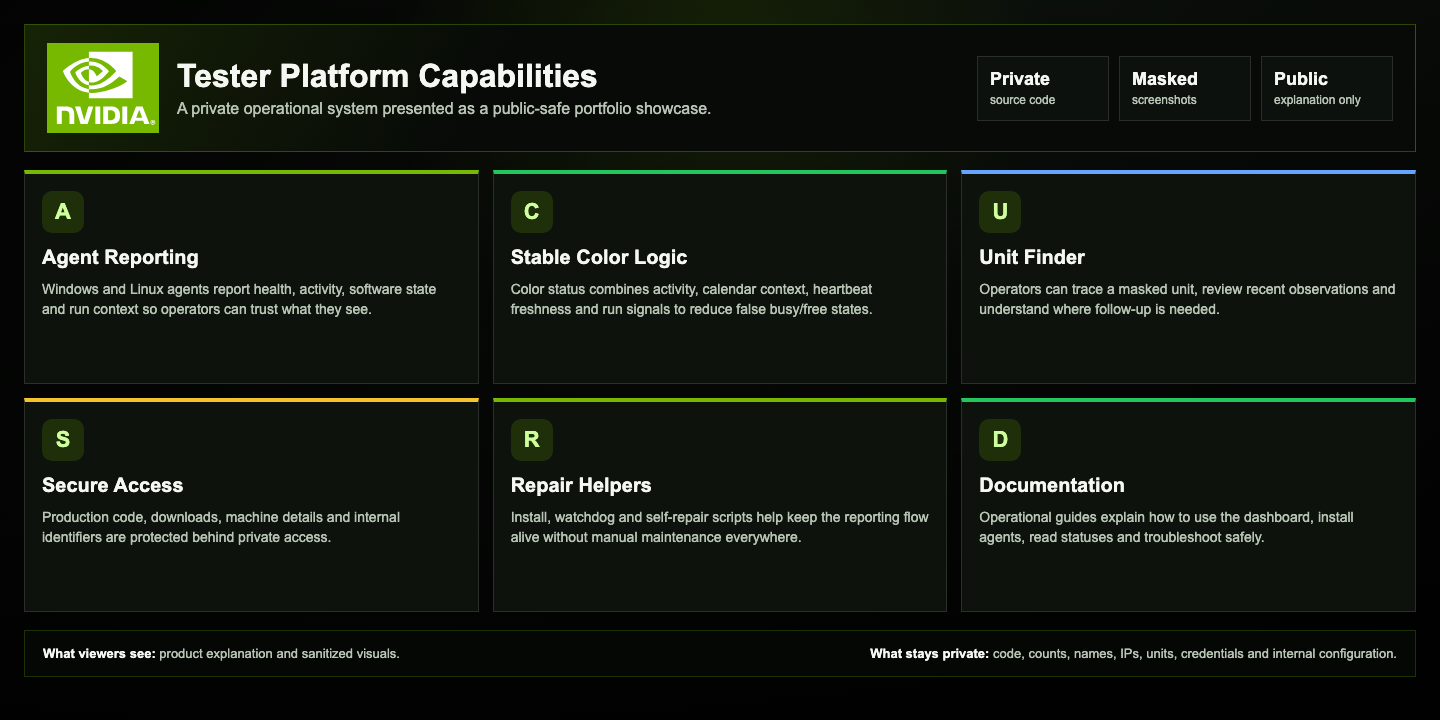
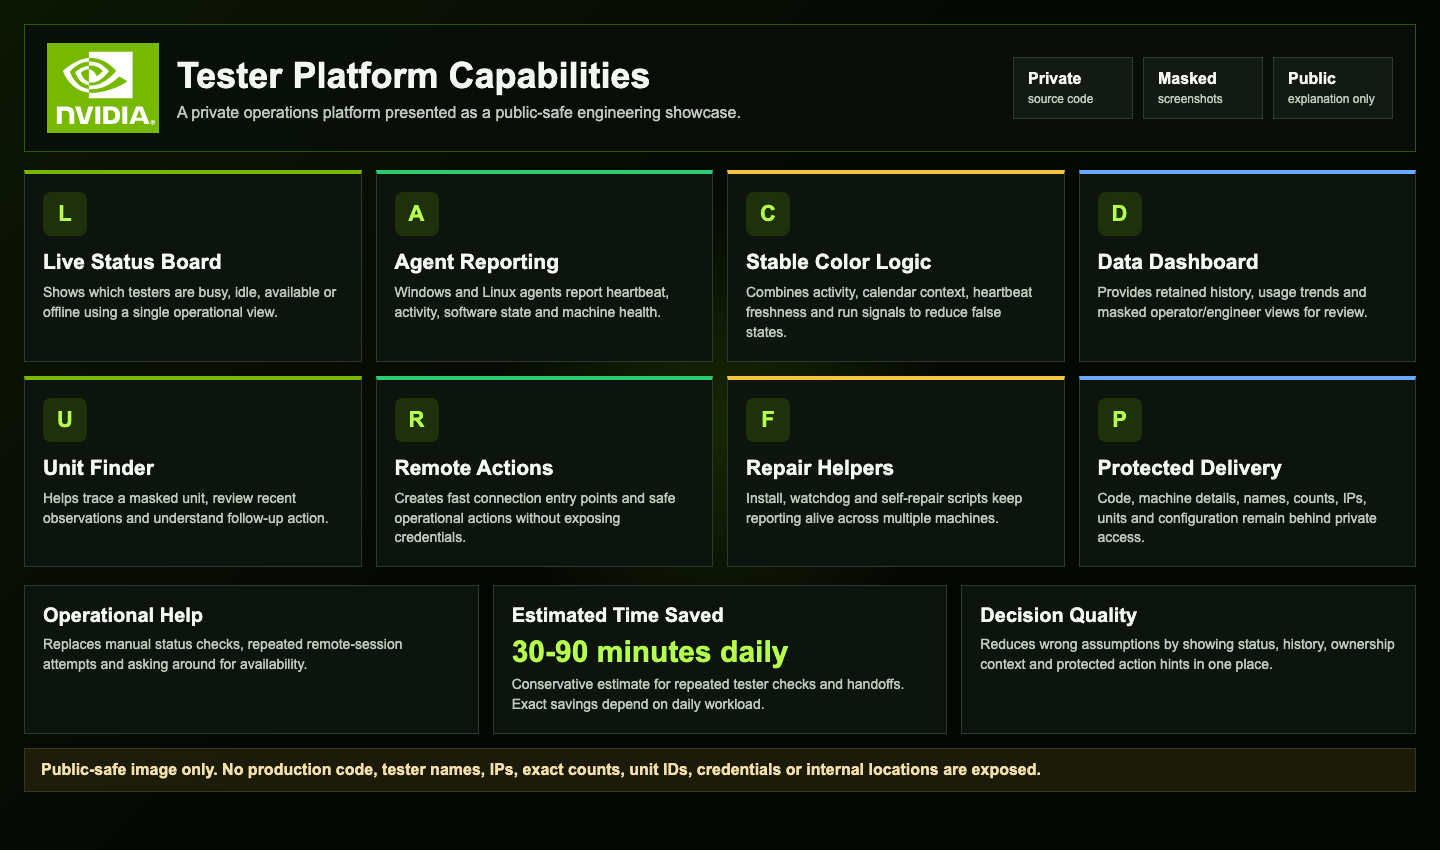
Expand tester dashboard impact showcase

diff --git a/README.md b/README.md
@@ -1,8 +1,8 @@
 # Tester Monitor Dashboard
 
-Public showcase for a private internal operations system.
+Public showcase for a private internal operations platform.
 
-The real source code and production configuration are private. This repository contains only sanitized screenshots and a project explanation.
+The real source code, machine configuration and production data are private. This repository contains only sanitized screenshots and a professional project explanation.
 
 ## Dashboard Overview
 
@@ -16,48 +16,35 @@ The real source code and production configuration are private. This repository c
 
 ![Unit Finder dashboard](assets/unit-finder.png)
 
-## Platform Capabilities
+## Capabilities And Impact
 
 ![Tester platform capabilities](assets/platform-capabilities.png)
 
 ## What This Project Solves
 
-The dashboard was built to make tester operations easier to understand at a glance without calling people, opening multiple remote sessions or guessing which machine is actually active.
+The platform helps operators understand tester availability, tester health and unit movement without manually opening many remote sessions, calling people for status or searching through disconnected files.
 
-It provides a clean operational layer for:
+It provides a clear operational layer for:
 
-- Live tester status and traffic-light availability.
-- Stable color rules that reduce false busy/free signals.
-- Agent health and heartbeat visibility.
-- Data views for trends, usage patterns and operational summaries.
-- Calendar-aware status context.
+- Live tester status across busy, idle, available and offline states.
+- Stable traffic-light rules that reduce false busy/free signals.
+- Windows and Linux agent reporting for heartbeat, activity and machine health.
+- Calendar-aware status context and booking awareness.
+- Data views for retained history, relative usage trends and operational summaries.
+- Unit Finder flow for tracing masked units and recent observations.
 - Remote action entry points for internal operators.
-- Unit finding and recent path lookup.
-- Masked ownership and run context for faster decisions.
-- Public-safe documentation that does not expose internal identifiers.
+- Repair, install and watchdog helpers to keep reporting alive.
+- Public-safe documentation that explains the product without exposing internal identifiers.
 
-## Recent Tester Platform Work
+## Work Impact
 
-- Built a public-safe showcase layer that explains the system without exposing internal data.
-- Added a Data Dashboard presentation for trends, usage patterns and operational summaries with all sensitive values masked.
-- Added Unit Finder presentation for locating units and reviewing recent observations.
-- Documented stable color logic for busy, idle, available and offline states.
-- Highlighted the agent reporting flow across Windows and Linux machines.
-- Clarified which parts are private and which parts are safe to show publicly.
+Estimated impact: **30-90 minutes saved per active workday** for repeated tester checks, handoffs and status verification.
 
-## Data Dashboard Capability
-
-The Data Dashboard shows operational trends, relative activity, dashboard usage and high-level status breakdowns. The public version uses anonymized labels, masked totals and sample data so the viewer can understand the product without seeing tester names, IPs, exact counts, internal locations or production identifiers.
-
-## Unit Finder Capability
-
-The Unit Finder view helps operators search for a unit, understand where it was last seen, and connect that information to recent agent reports and run history.
-
-For privacy, the public screenshot uses masked unit IDs, generic tester groups and fake route data. The production system keeps real machine names, unit IDs, IPs and ownership data private.
+This is a conservative portfolio estimate, not a measured production KPI. The saving comes from replacing manual status checks, repeated remote connection attempts, searching for the right machine/unit context and asking around for availability.
 
 ## My Work
 
-I designed and implemented the dashboard experience, status logic, data reporting view, agent reporting flow, protected code-download flow, remote install/repair helpers, Unit Finder view, operational documentation and public-safe portfolio presentation.
+I designed and implemented the dashboard experience, status logic, data reporting view, Unit Finder flow, agent reporting pipeline, protected code-download flow, remote install/repair helpers, operational documentation and public-safe portfolio presentation.
 
 ## Privacy And Access
 
@@ -66,4 +53,6 @@ This repository intentionally contains only:
 - `README.md`
 - sanitized showcase images
 
-It does not include production code, machine names, tester names, IP addresses, unit IDs, internal counts, credentials, customer data or lab configuration.
+It does not include production code, tester names, employee names, IP addresses, exact tester counts, unit IDs, internal locations, credentials, customer data or lab configuration.
+
+Source code: private.